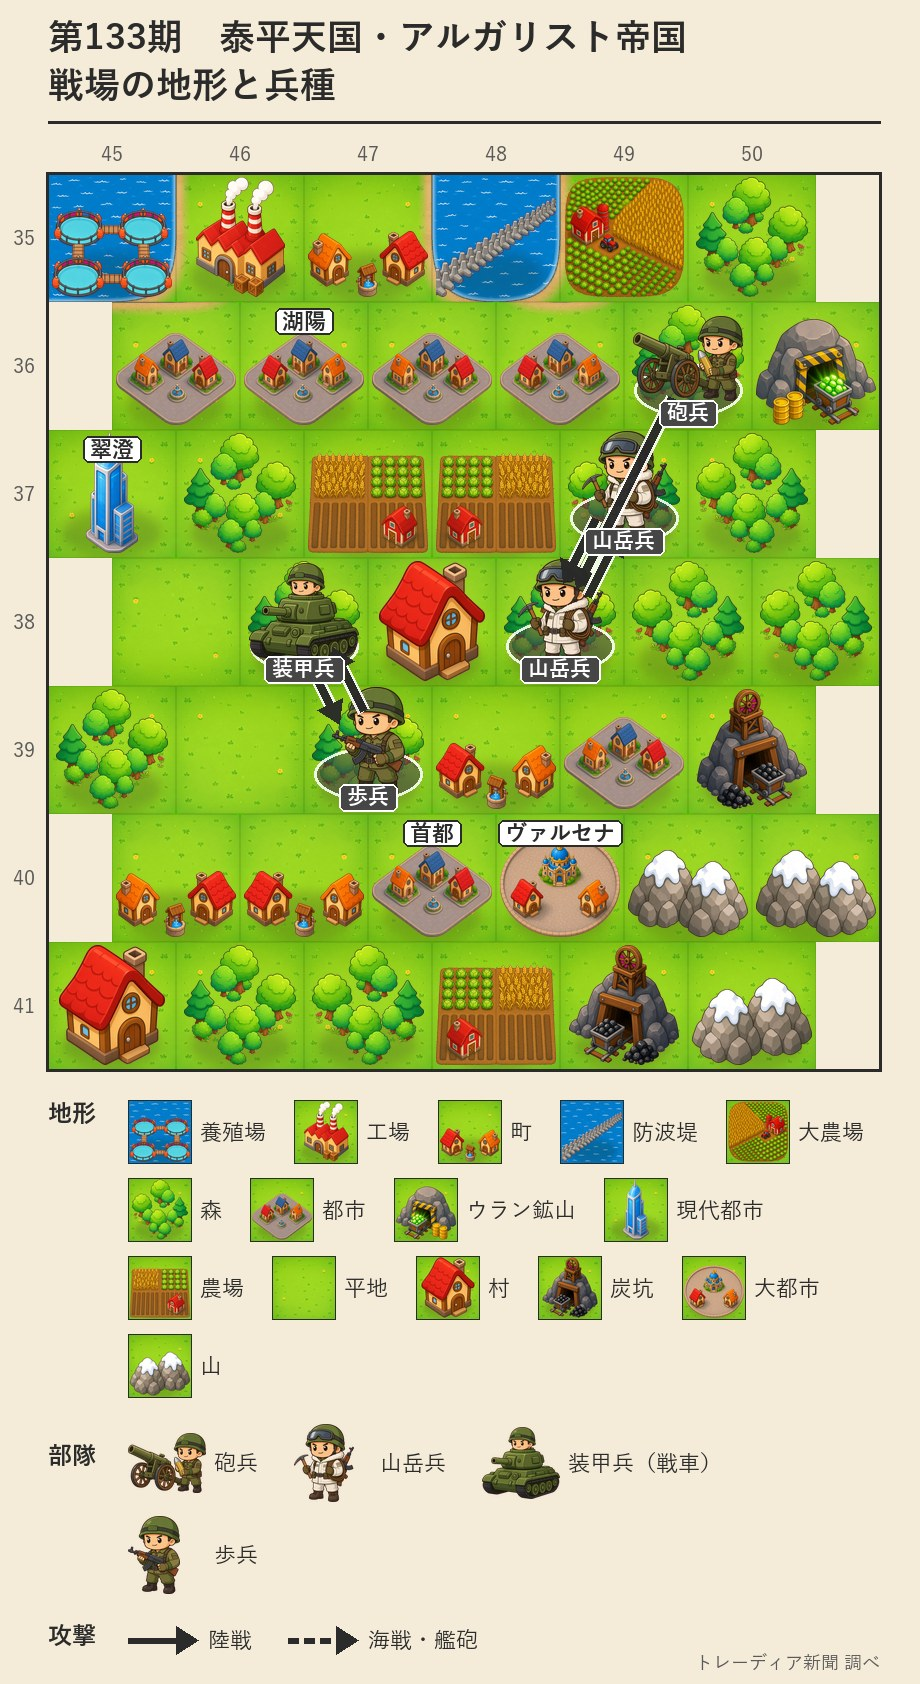
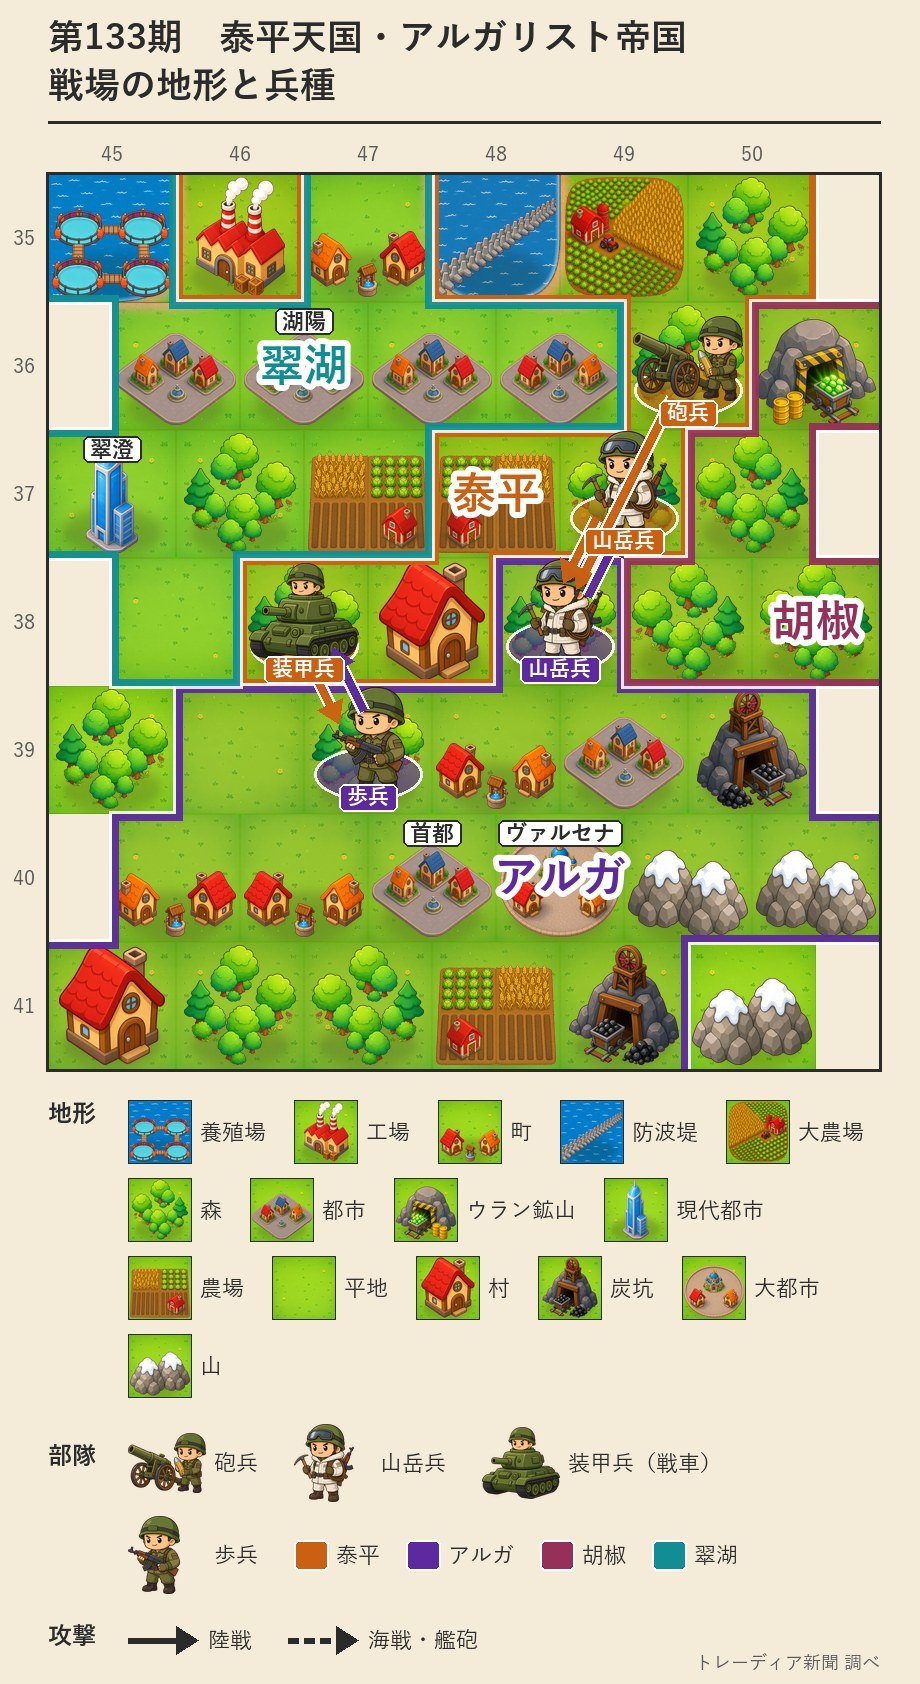
第133期 夕刊

diff --git a/index.html b/index.html
@@ -680,7 +680,7 @@ b.sea { color: #1f5f7a; font-weight: 800; }
 <section class="page">
   <h2 class="page-name"><span class="tag">バックナンバー</span></h2>
   <ul class="archive">
-    <li><a href="issues/133-夕刊.html">第133期 夕刊</a><span class="top">黒潮、首都を失う　ネルヴェナへ強制移住</span></li>
+    <li><a href="issues/133-夕刊.html">第133期 夕刊</a><span class="top">黒潮、ついに首都陥落　カペレナ軍、評議会の都を占領</span></li>
     <li><a href="issues/132-朝刊.html">第132期 朝刊</a><span class="top">ネルヴェナ、最後の100人全員死亡潮見玄吾議長「百烈士」を顕彰</span></li>
     <li><a href="issues/131-夕刊.html">第131期 夕刊</a><span class="top">黒潮の港町、再び艦砲の標的に二都市で600人死亡　王国は北部制圧を宣言</span></li>
     <li><a href="issues/130-朝刊.html">第130期 朝刊</a><span class="top">エスペランサ皇国、ついに滅亡チェス軍、三度目の首都を占領</span></li>

diff --git a/issues/133-夕刊.html b/issues/133-夕刊.html
@@ -880,7 +880,7 @@ b.sea { color: #1f5f7a; font-weight: 800; }
         <h2 class="v-headline">泰平・アルガ戦争、ついに開戦<br>初戦で泰平軍優勢　戦果6,600人</h2>
         <p class="v-sub">アルガ軍の戦果2,300人　泰平は5か所で徴兵、兵力518,200人に　兵力差45万人超</p>
         <figure class="photo">
-          <img class="fitmap battle compact" src="../images/133-夕刊/133-battle-02.jpg" alt="泰平とアルガの戦場">
+          <img class="fitmap battle compact" src="../images/133-夕刊/133-battle-02.jpg?v=2" alt="泰平とアルガの戦場">
           <figcaption>泰平天国とアルガリスト帝国の戦場。装甲兵、歩兵、山岳兵が交戦し、初戦から双方に戦果が生じた。</figcaption>
         </figure>
       </div>
